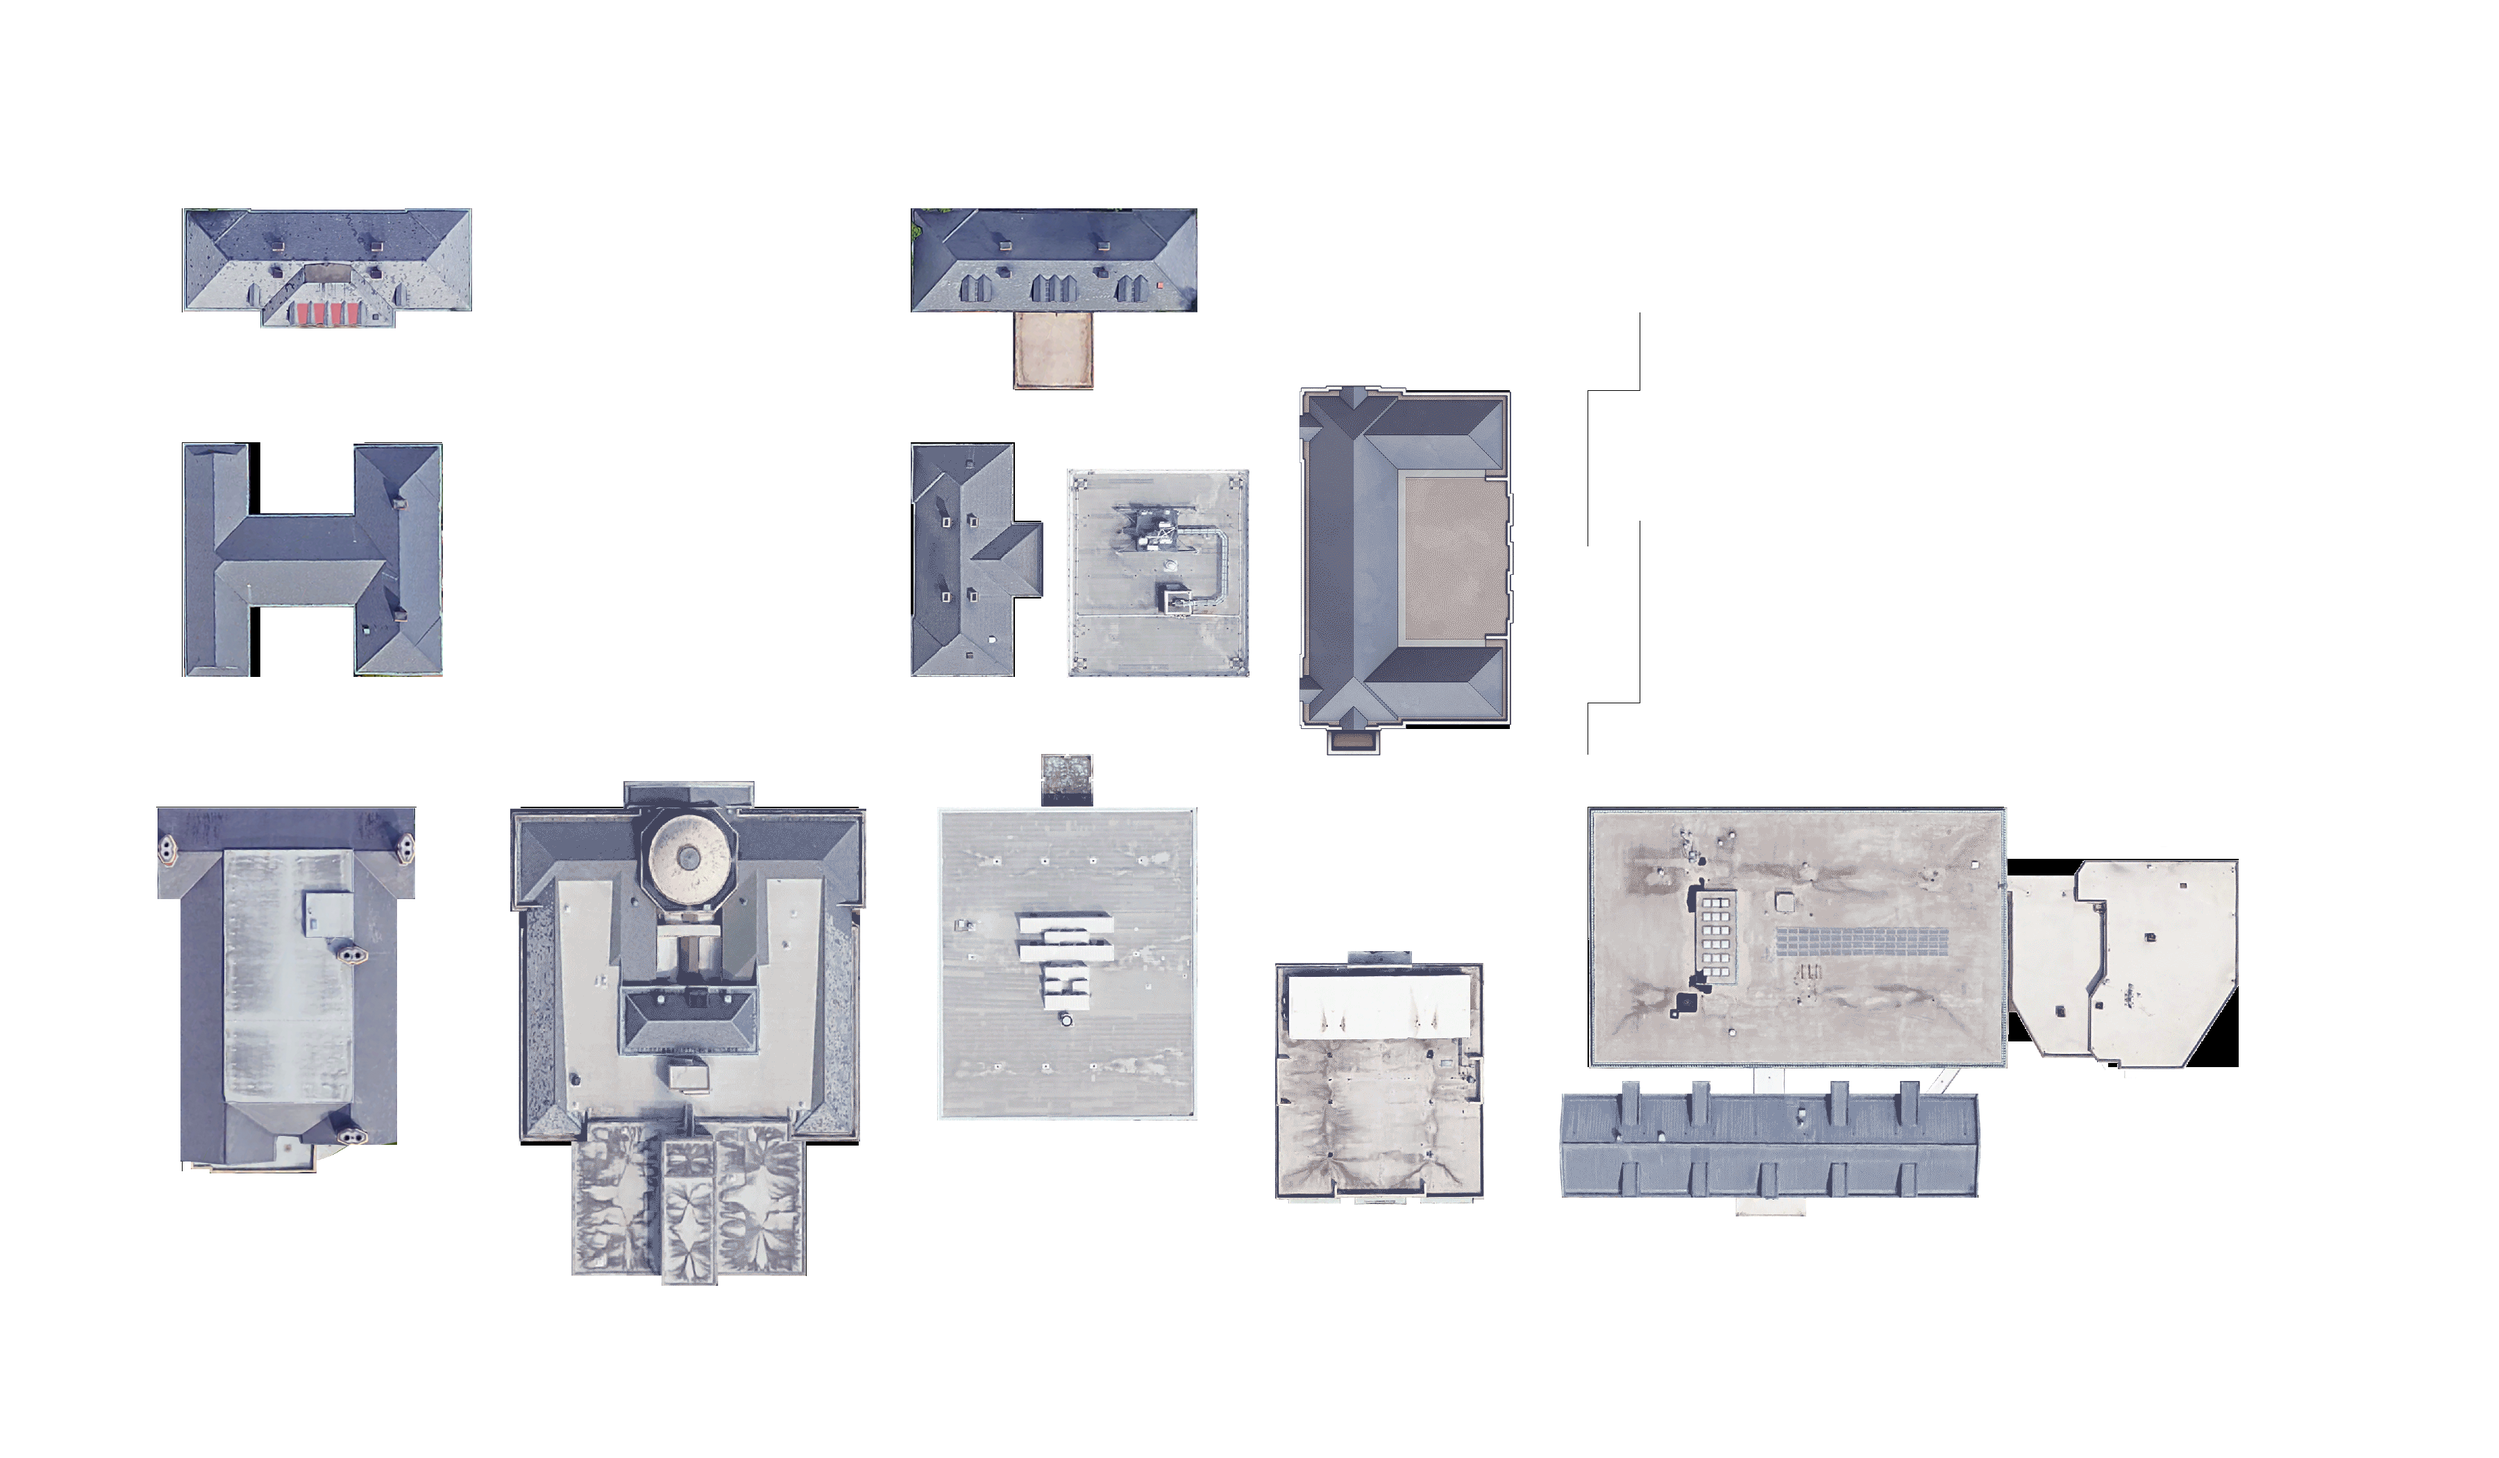
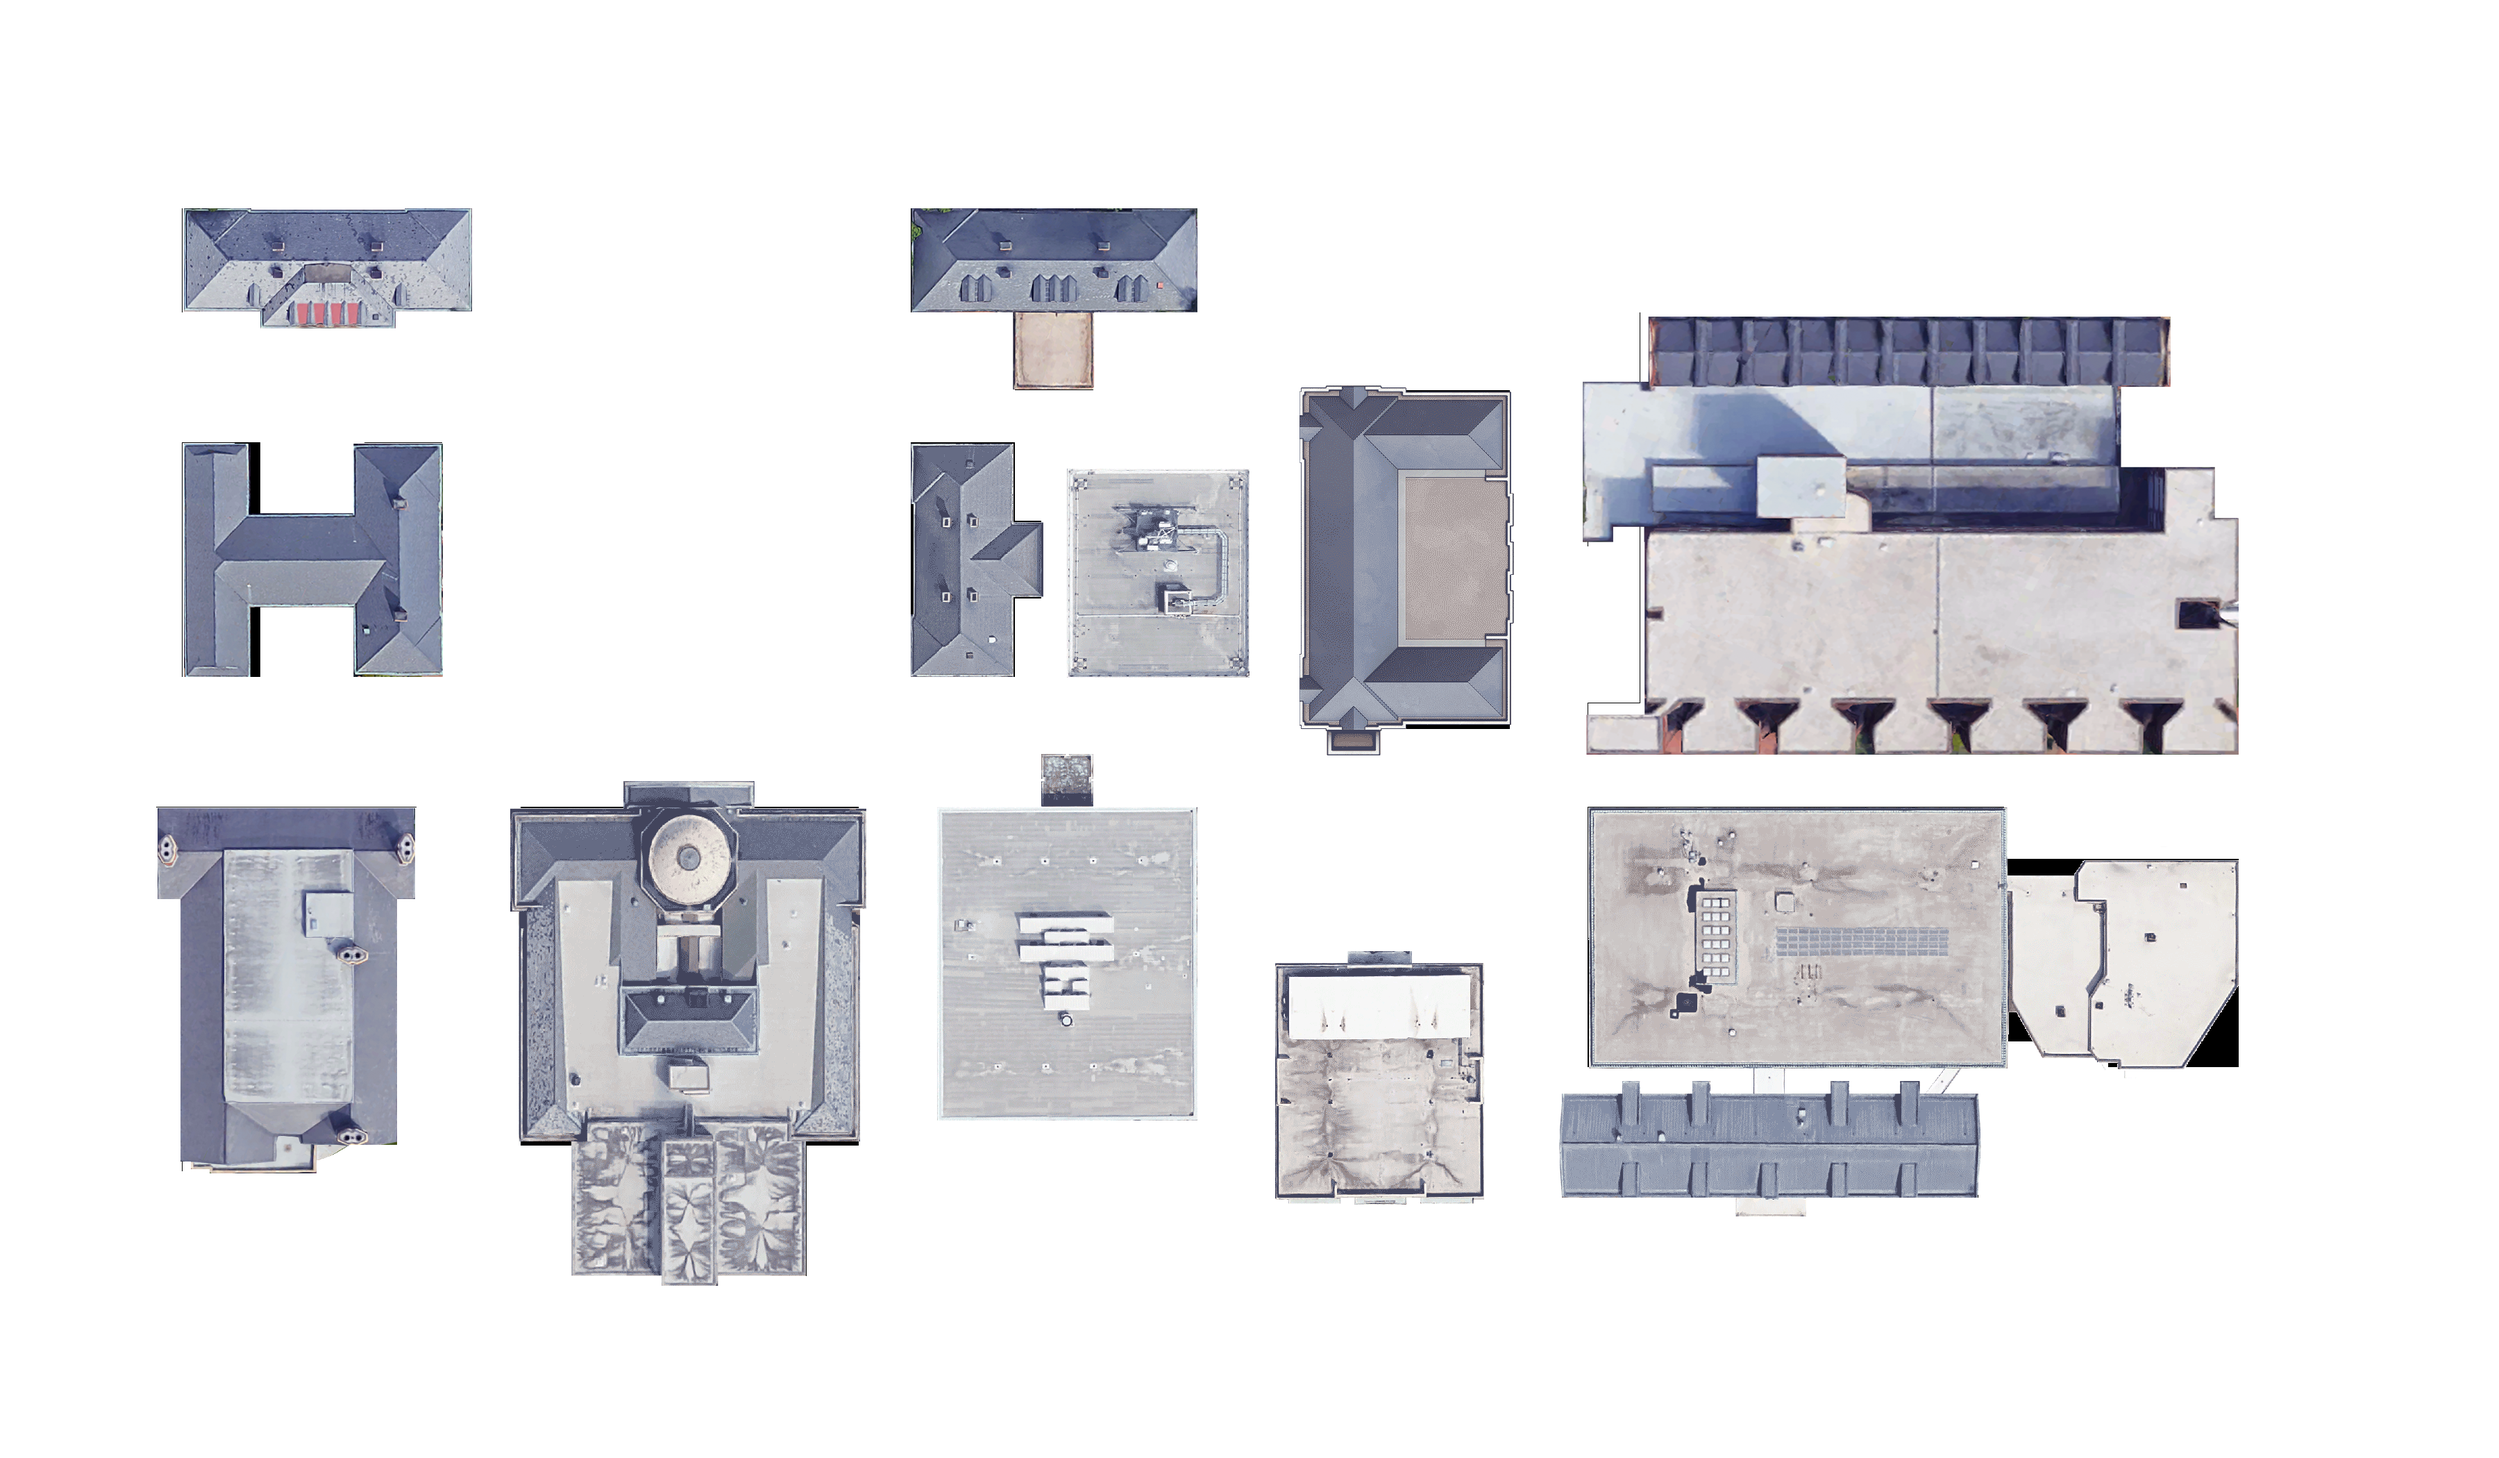
Added Davis

Changed region(s): [[0.6222, 0.2167, 0.9022, 0.5262]]

diff --git a/css/style.css b/css/style.css
@@ -492,6 +492,42 @@ body {
     z-index: 10;
 }
 
+#davis1.overlay {
+    position: absolute;
+    height: calc(9.5 * 50px);
+    width: calc(13.5 * 50px);
+    top: calc(11 * 50px);
+    left: calc(60 * 50px);
+    z-index: 10;
+}
+
+#davis2.overlay {
+    position: absolute;
+    height: calc(9.5 * 50px);
+    width: calc(13.5 * 50px);
+    top: calc(11 * 50px);
+    left: calc(73.5 * 50px);
+    z-index: 10;
+}
+
+#davis3.overlay {
+    position: absolute;
+    height: calc(9.5 * 50px);
+    width: calc(13.5 * 50px);
+    top: calc(20.5 * 50px);
+    left: calc(60 * 50px);
+    z-index: 10;
+}
+
+#davis4.overlay {
+    position: absolute;
+    height: calc(9.5 * 50px);
+    width: calc(13.5 * 50px);
+    top: calc(20.5 * 50px);
+    left: calc(73.5 * 50px);
+    z-index: 10;
+}
+
 #minimap {
     width: 200px;
     height: 117px;

diff --git a/index.html b/index.html
@@ -151,6 +151,10 @@
                     <img id="dey" src="img/dey.png" class="overlay">
                     <img id="gardner" src="img/gardner.png" class="overlay">
                     <img id="murphey" src="img/murphey.png" class="overlay">
+                    <img id="davis1" src="img/davis_01.png" class="overlay">
+                    <img id="davis2" src="img/davis_02.png" class="overlay">
+                    <img id="davis3" src="img/davis_03.png" class="overlay">
+                    <img id="davis4" src="img/davis_04.png" class="overlay">
 
                     <img id="collision_border" src="img/collision_border.png" class="overlay">
                 </div> 
